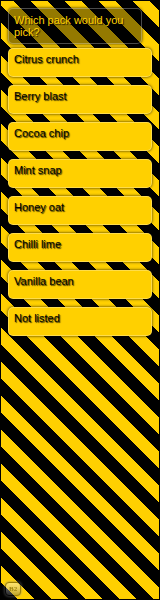
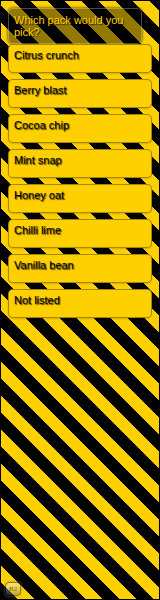
Restore per-answer borders and spacing on themed creatives
Theme-only CSS (no leftover default stylesheet) was painting answers as
one reverse-highlighted bar. The BV2 theme block, layout overlay, and
editor preview now give each .Abox its own border, radius, and gap, and
style Next plus the Advertisement label. Playwright checks borders and
gaps across presets.

Changed region(s): [[0.0312, 0.06, 0.9688, 0.57]]

diff --git a/creative/app/static/survey-editor.js b/creative/app/static/survey-editor.js
@@ -103,6 +103,10 @@
       '}',
       '.Abox {',
       '  background-color: var(--bv2-answer-bg);',
+      '  border: 1px solid rgba(0, 0, 0, 0.35);',
+      '  border-radius: 5px;',
+      '  margin: 0;',
+      '  box-shadow: 0 1px 2px rgba(0, 0, 0, 0.18);',
       '}',
       '.AText, #next_button {',
       '  color: var(--bv2-answer-color);',
@@ -113,6 +117,13 @@
       '}',
       '#next_button {',
       '  background-color: var(--bv2-accent);',
+      '  padding: 3px 15px;',
+      '  border: 1px solid rgba(0, 0, 0, 0.28);',
+      '  border-radius: 4px;',
+      '  display: inline-block;',
+      '}',
+      '#ad_text {',
+      '  font-family: Arial, Helvetica, sans-serif;',
       '}',
       THEME_END
     ].join('\n');

diff --git a/creative/app/test/test_answer_boxes.py b/creative/app/test/test_answer_boxes.py
@@ -1,0 +1,127 @@
+# Copyright 2026 Google LLC
+#
+# Licensed under the Apache License, Version 2.0 (the "License");
+# you may not use this file except in compliance with the License.
+# See the License for the specific language governing permissions and
+# limitations under the License.
+
+"""Answer options keep per-button borders and gaps across BV2 themes."""
+import os
+import threading
+import unittest
+from unittest import mock
+from wsgiref.simple_server import make_server
+
+import css_theme
+import main
+import survey_service
+from test_thankyou import _html, _survey
+
+
+def _playwright_or_skip():
+  try:
+    from playwright.sync_api import sync_playwright
+    return sync_playwright
+  except ImportError:
+    raise unittest.SkipTest('playwright is not installed')
+
+
+_MEASURE_JS = """() => {
+  const boxes = Array.from(document.querySelectorAll('.Abox')).filter((el) => {
+    const r = el.getBoundingClientRect();
+    const hidden = el.className.indexOf('invisible') !== -1
+      || getComputedStyle(el).display === 'none';
+    return !hidden && r.height > 0;
+  });
+  const next = document.getElementById('next_button');
+  const ad = document.getElementById('ad_text');
+  const metrics = boxes.map((el) => {
+    const s = getComputedStyle(el);
+    const r = el.getBoundingClientRect();
+    return {
+      border: parseFloat(s.borderTopWidth) || 0,
+      radius: parseFloat(s.borderRadius) || 0,
+      top: r.top,
+      bottom: r.bottom,
+      height: r.height
+    };
+  });
+  const nextStyle = next ? getComputedStyle(next) : null;
+  const adStyle = ad ? getComputedStyle(ad) : null;
+  return {
+    count: boxes.length,
+    metrics: metrics,
+    nextPadding: nextStyle ? parseFloat(nextStyle.paddingLeft) || 0 : 0,
+    nextBorder: nextStyle ? parseFloat(nextStyle.borderTopWidth) || 0 : 0,
+    adFont: adStyle ? adStyle.fontFamily : ''
+  };
+}"""
+
+
+class AnswerBoxChromeTest(unittest.TestCase):
+
+  def test_theme_only_css_still_declares_borders(self):
+    for preset in css_theme.STYLE_PRESETS[:6]:
+      css = css_theme.combine_css(preset, '')
+      self.assertIn('border: 1px solid rgba(0, 0, 0, 0.35)', css, preset['id'])
+      html = _html(_survey(
+          answers=4, size='300x600',
+          extra={'custom_css': css, 'creativesize': '300x600'}))
+      self.assertIn('gap: 6px', html, preset['id'])
+      self.assertIn('border: 1px solid rgba(0, 0, 0, 0.35)', html, preset['id'])
+
+  def test_preview_answer_boxes_have_borders_and_gaps_across_themes(self):
+    sync_playwright = _playwright_or_skip()
+    presets = [item for item in css_theme.STYLE_PRESETS
+               if item['id'] in ('classic', 'dark', 'electric-cyan', 'hot-pink')]
+    self.assertEqual(len(presets), 4)
+
+    main.app.config['AUTH_BYPASS'] = True
+    main.app.config['WTF_CSRF_ENABLED'] = False
+    server = make_server('127.0.0.1', 0, main.app)
+    thread = threading.Thread(target=server.serve_forever, daemon=True)
+    thread.start()
+    port = server.server_port
+    try:
+      with sync_playwright() as playwright:
+        browser = playwright.chromium.launch(headless=True)
+        page = browser.new_page(viewport={'width': 400, 'height': 700})
+        for preset in presets:
+          css = css_theme.combine_css(preset, '')
+          survey = _survey(
+              answers=4, size='300x600',
+              extra={'custom_css': css, 'creativesize': '300x600'})
+
+          class Doc(object):
+            id = 'sid'
+            exists = True
+            def to_dict(self):
+              return survey
+            def get(self, key, default=None):
+              return survey.get(key, default)
+
+          with mock.patch.object(
+              survey_service, 'get_doc_by_id', return_value=Doc()):
+            page.goto(
+                'http://127.0.0.1:%s/survey/preview/sid?size=300x600'
+                % port,
+                wait_until='networkidle')
+            page.wait_for_selector('.Abox')
+            measured = page.evaluate(_MEASURE_JS)
+          self.assertGreaterEqual(measured['count'], 3, preset['id'])
+          for item in measured['metrics']:
+            self.assertGreaterEqual(item['border'], 1, preset['id'])
+            self.assertGreaterEqual(item['radius'], 4, preset['id'])
+            self.assertGreater(item['height'], 10, preset['id'])
+          for left, right in zip(
+              measured['metrics'], measured['metrics'][1:]):
+            gap = right['top'] - left['bottom']
+            self.assertGreaterEqual(gap, 4, '%s gap=%s' % (preset['id'], gap))
+          self.assertGreaterEqual(measured['nextPadding'], 8, preset['id'])
+          self.assertGreaterEqual(measured['nextBorder'], 1, preset['id'])
+          self.assertRegex(measured['adFont'], r'Arial|Helvetica|sans-serif')
+        browser.close()
+    finally:
+      server.shutdown()
+      main.app.config['AUTH_BYPASS'] = False
+      main.app.config['WTF_CSRF_ENABLED'] = True

diff --git a/creative/app/test/test_css_theme.py b/creative/app/test/test_css_theme.py
@@ -14,6 +14,7 @@
 
 import unittest
 
+import creative_size
 import css_theme
 from forms import DEFAULT_CSS
 
@@ -79,6 +80,17 @@ class CssThemeTest(unittest.TestCase):
     self.assertIn('--bv2-bg-image: none;', block)
     self.assertNotIn('javascript:', block)
 
+  def test_theme_and_layout_style_separate_answer_boxes(self):
+    block = css_theme.generate_theme_block(css_theme.DEFAULT_THEME)
+    self.assertIn('border: 1px solid rgba(0, 0, 0, 0.35)', block)
+    self.assertIn('padding: 3px 15px', block)
+    self.assertIn('#ad_text {', block)
+    layout = creative_size.layout_fix_css()
+    self.assertIn('gap: 6px', layout)
+    self.assertIn('border: 1px solid rgba(0, 0, 0, 0.35)', layout)
+    self.assertIn('#next_button {', layout)
+    self.assertIn('Arial, Helvetica, sans-serif', layout)
+
   def test_generated_theme_uses_bv2_variables_and_sentinels(self):
     block = css_theme.generate_theme_block(css_theme.DEFAULT_THEME)
     self.assertTrue(block.startswith(css_theme.THEME_START))
@@ -122,3 +134,5 @@ class CssThemeTest(unittest.TestCase):
     self.assertIn('/* BV2_THEME_START */', source)
     self.assertIn('--bv2-bg:', source)
     self.assertIn('var(--bv2-accent)', source)
+    self.assertIn('border: 1px solid rgba(0, 0, 0, 0.35)', source)
+    self.assertIn('#next_button', source)

diff --git a/creative/app/creative_size.py b/creative/app/creative_size.py
@@ -229,6 +229,7 @@ def overlay_css(size):
         '#master_container.layout-tall .answers-grid {',
         '  display: flex;',
         '  flex-direction: column;',
+        '  gap: 6px;',
         '}',
     ]
   lines.append(SIZE_END)
@@ -260,6 +261,7 @@ def layout_fix_css():
       '.answers-grid {',
       '  width: 100%;',
       '  max-width: 100%;',
+      '  gap: 6px;',
       '}',
       '.Abox {',
       '  width: 100% !important;',
@@ -267,6 +269,20 @@ def layout_fix_css():
       '  box-sizing: border-box !important;',
       '  height: auto !important;',
       '  overflow: hidden;',
+      '  border: 1px solid rgba(0, 0, 0, 0.35);',
+      '  border-radius: 5px;',
+      '  margin: 0;',
+      '  box-shadow: 0 1px 2px rgba(0, 0, 0, 0.18);',
+      '}',
+      '#next_button {',
+      '  padding: 3px 15px;',
+      '  border: 1px solid rgba(0, 0, 0, 0.28);',
+      '  border-radius: 4px;',
+      '  display: inline-block;',
+      '}',
+      '#ad_text {',
+      '  font-family: Arial, Helvetica, sans-serif;',
+      '  font-size: 5px;',
       '}',
       '.AText {',
       '  height: auto !important;',

diff --git a/creative/app/css_theme.py b/creative/app/css_theme.py
@@ -273,6 +273,10 @@ def generate_theme_block(theme):
       '}',
       '.Abox {',
       '  background-color: var(--bv2-answer-bg);',
+      '  border: 1px solid rgba(0, 0, 0, 0.35);',
+      '  border-radius: 5px;',
+      '  margin: 0;',
+      '  box-shadow: 0 1px 2px rgba(0, 0, 0, 0.18);',
       '}',
       '.AText, #next_button {',
       '  color: var(--bv2-answer-color);',
@@ -283,6 +287,13 @@ def generate_theme_block(theme):
       '}',
       '#next_button {',
       '  background-color: var(--bv2-accent);',
+      '  padding: 3px 15px;',
+      '  border: 1px solid rgba(0, 0, 0, 0.28);',
+      '  border-radius: 4px;',
+      '  display: inline-block;',
+      '}',
+      '#ad_text {',
+      '  font-family: Arial, Helvetica, sans-serif;',
       '}',
       THEME_END,
   ])

diff --git a/tools/seed_demo_data.py b/tools/seed_demo_data.py
@@ -50,8 +50,20 @@ BATCH_WRITES = 400
 WCAG_AA_CONTRAST = 4.5
 
 # Layout leftover kept beside the generated BV2_THEME block (no hardcoded green).
+# Answer chrome (borders/gaps) also lives in the theme block and layout_fix overlay.
 _LAYOUT_CSS = """body { margin: 0; display: block; }
 .invisible { display: none; }
+.Abox {
+    border: 1px solid rgba(0, 0, 0, 0.35);
+    border-radius: 5px;
+    margin: 0;
+}
+#next_button {
+    padding: 3px 15px;
+    border-radius: 4px;
+    display: inline-block;
+}
+#ad_text { font-family: Arial, Helvetica, sans-serif; }
 """
 
 _RGBA_RE = re.compile(

diff --git a/DEVELOPERS.md b/DEVELOPERS.md
@@ -291,7 +291,7 @@ python3 tools/seed_demo_data.py --project brandometer2 --purge --apply
 
 The admin UI is self-hosted Bootstrap 5.3.3, Bootstrap Icons 1.11.3, htmx 1.9.12, Alpine.js 3.14.3, and Chart.js 4.4.6 under `creative/app/static/vendor/` (see `VERSIONS`). Style pickers write a theme block of `--bv2-*` CSS variables into `custom_css` (`BV2_THEME_START` / `BV2_THEME_END` sentinels); existing free-form CSS is kept in Advanced (CSS) and still used when zipping creatives. Custom CSS that still names the old variables is not applied. **Presets** are a grouped dropdown (Classic / Loud solids / Complementary / Patterns); Classic green is the default. Patterns are CSS gradients only, with a solid panel behind question and answer text. The live preview iframe resizes to the previewed **creative size** and has a size switcher when more than one size is selected. Set an optional **Display name** to show a friendly label on the homepage (survey name still drives zip filenames).
 
-**Theme CSS.** Pickers and presets write `--bv2-*` variables (`--bv2-bg`, `--bv2-accent`, …) between `BV2_THEME_START` / `BV2_THEME_END`. Size and wrap overlays use `BV2_SIZE_*` and `BV2_LAYOUT_*`. Custom CSS that still uses the previous variable names is not applied on new zips or preview. Redeploy App Engine (`--app-only`) and re-download zips.
+**Theme CSS.** Pickers and presets write `--bv2-*` variables (`--bv2-bg`, `--bv2-accent`, …) between `BV2_THEME_START` / `BV2_THEME_END`. The theme block and the always-injected layout overlay give each `.Abox` its own border, radius, and grid/flex `gap` (and pad `#next_button`) so answers do not collapse into one highlighted bar when leftover DEFAULT_CSS is missing. Size and wrap overlays use `BV2_SIZE_*` and `BV2_LAYOUT_*`. Custom CSS that still uses the previous variable names is not applied on new zips or preview. Redeploy App Engine (`--app-only`) and re-download zips.
 
 **Bulk CSV create.** Editors/admins: navbar **Bulk CSV** → `/survey/bulk`. Download `survey_bulk_template.csv`, preview (validates name, Q1 + answers A/B, sizes, type, F–H only on tall sizes), then create valid rows (max 50). Invalid rows are skipped. `survey_service.create_from_payload` writes the same Firestore fields as the editor form (default CSS, next=end). Viewers 403. Redeploy App Engine (`--app-only`).
 

diff --git a/README.md b/README.md
@@ -66,7 +66,7 @@ Create or edit a survey in the browser (Bootstrap 5.3.3, Alpine.js, live iframe 
 
 * **Sizes:** 300×250 (default for old surveys), 160×600, 300×600, 336×280, 970×250. You can select more than one. 970×250 lays answers in a wrapping grid. Not 728×90 / 320×50 / 320×100.
 * **Answers:** 2–5 on 300×250 / 336×280 / 970×250; up to 8 (a–h) when **every** selected size is 160×600 or 300×600. Empty rows are skipped. Answer text wraps.
-* **Themes:** grouped presets (Classic, Loud solids, Complementary, Patterns). Classic green is the default. Pickers write `--bv2-*` CSS variables (`--bv2-bg`, `--bv2-accent`, …) inside `BV2_THEME_START` / `BV2_THEME_END`. Free-form CSS stays under Advanced. Custom CSS written for the old names is not applied — re-pick a preset (or rewrite the variables) for new zips.
+* **Themes:** grouped presets (Classic, Loud solids, Complementary, Patterns). Classic green is the default. Pickers write `--bv2-*` CSS variables (`--bv2-bg`, `--bv2-accent`, …) inside `BV2_THEME_START` / `BV2_THEME_END`. Each answer is its own bordered button with spacing (theme block + layout overlay), including when leftover default CSS is absent. Free-form CSS stays under Advanced. Custom CSS written for the old names is not applied — re-pick a preset (or rewrite the variables) for new zips.
 * **Disclosure badge:** bottom-left **B** / **B2** / **Ad** / **Dentsu** pill on the creative (not an official Dentsu logo). Optional tooltip (max 120 characters).
 * **Identity:** optional display name, client, agency, campaign ID, placement ID, and **ad server** (CM360 default, DV360, GAM, or generic). Display name is the homepage label; the survey name still drives zip filenames. Campaign/placement IDs show on the report, the tag sheet, response CSV (fallback when the pixel did not send them), and as pixel fallbacks when the ad-server macro does not expand.
 * **Ad-server macros:** each zip sets `clickTag` and cachebuster / campaign / placement / site / creative / user-id / GDPR / US-privacy placeholders for the selected ad server. Expanded IDs are sent on the pixel (`camp`, `plc`, `site`, `crid`). Unexpanded placeholders are not sent. GDPR/US privacy strings stay in the creative for the ad environment; they are **not** stored in BigQuery. Generic mode keeps a static clickTag.
